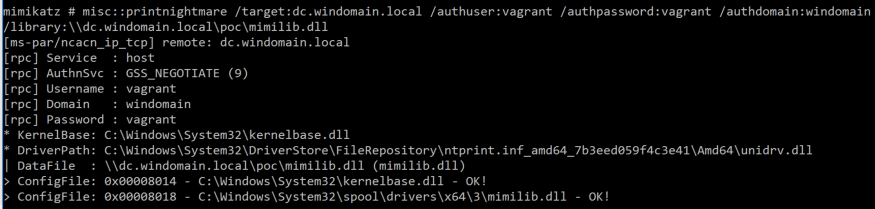
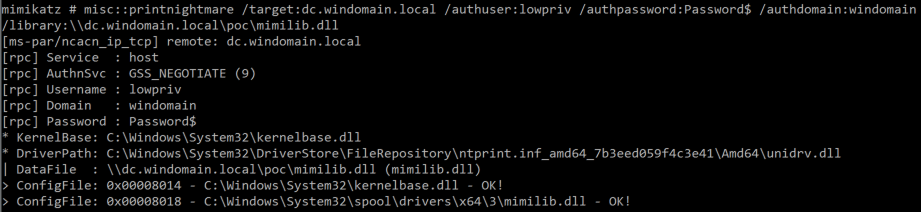
Updated blogs (#49)

Changed region(s): [[0.0, 0.0, 1.0, 1.0]]

diff --git a/static/css/light.css b/static/css/light.css
@@ -1,5 +1,6 @@
 :root{
     --MAIN-TEXT-color:#323232; /* Color of text by default */
+    --MAIN-TEXT-background-color: #ECEFF1;
     --MAIN-TITLES-TEXT-color: #000; /* Color of titles h2-h3-h4-h5 */
     --MAIN-LINK-color:#1C90F3; /* Color of links */
     --MAIN-LINK-HOVER-color:#167ad0; /* Color of hovered links */
@@ -21,6 +22,9 @@
 
     --MENU-VISITED-color: #33a1ff; /* Color of 'page visited' icons in menu */
     --MENU-SECTION-HR-color: #20272b; /* Color of <hr> separator in menu */
+
+    --TABLE-HEADER-background-color: #ECEFF1;
+    --TABLE-HEADER-color: #323232;
 
     --CODE-SECTION-BG-color: #f4f4f4;
 

diff --git a/static/css/theme-mine.css b/static/css/theme-mine.css
@@ -530,6 +530,12 @@ p.egg {
     border: 0px;
 }
 
+table thead th {
+    background: var(--TABLE-HEADER-background-color);
+    color: var(--TABLE-HEADER-color);
+}
+
+
 .args table {
     border: none;
 }
@@ -571,4 +577,19 @@ body:after{
     color: #fff;
     line-height: 27px;
     transform:rotate(-45deg);
+}
+
+#body img.captioned {
+    margin-bottom: 1ex;
+}
+
+
+figcaption  {
+    display: block;
+    font-size: .875rem;
+    font-style: italic;
+    color: var(--gray-600);
+    text-align: center;
+    margin-top: .5rem;
+    margin-bottom: 2.5rem;
 }

diff --git a/layouts/_default/_markup/render-image.html b/layouts/_default/_markup/render-image.html
@@ -1,0 +1,8 @@
+{{ if .Text }}
+<figure>
+  <img src="{{ .Destination | safeURL }}" alt="{{ .Text }}" class="captioned">
+  <figcaption>{{ .Text }}</figcaption>
+</figure>
+{{ else }}
+  <img src="{{ .Destination | safeURL }}" alt="{{ .Text }}">
+{{ end }}

diff --git a/static/css/dark.css b/static/css/dark.css
@@ -25,6 +25,9 @@ body.dark {
 
     --CODE-SECTION-BG-color: #424242;
 
+    --TABLE-HEADER-background-color: #323232;
+    --TABLE-HEADER-color: #ECEFF1;
+
     --footer-color: #183f81;
     --vql: red;
     --mynotice: #EFEBE9;

diff --git a/scripts/blog_index.py b/scripts/blog_index.py
@@ -27,7 +27,7 @@ for root, dirs, files in os.walk(blog_root_directory):
         continue
 
       data = yaml.safe_load(m.group(1))
-      if data.get("index_page") or data.get("draft"):
+      if data.get("index_page") or data.get("noindex"):
         continue
 
       link = yaml_filename.lstrip("contents").replace("\\", "/")

diff --git a/content/blog/2021/2021-07-12-velociraptor-vs-printnightmare/_index.md b/content/blog/2021/2021-07-12-velociraptor-vs-printnightmare/_index.md
@@ -1,7 +1,7 @@
 ---
 title: "Velociraptor vs Printnightmare"
 date: 2021-07-11T18:13:50Z
-draft: true
+noindex: true
 weight: 20
 ---
 
